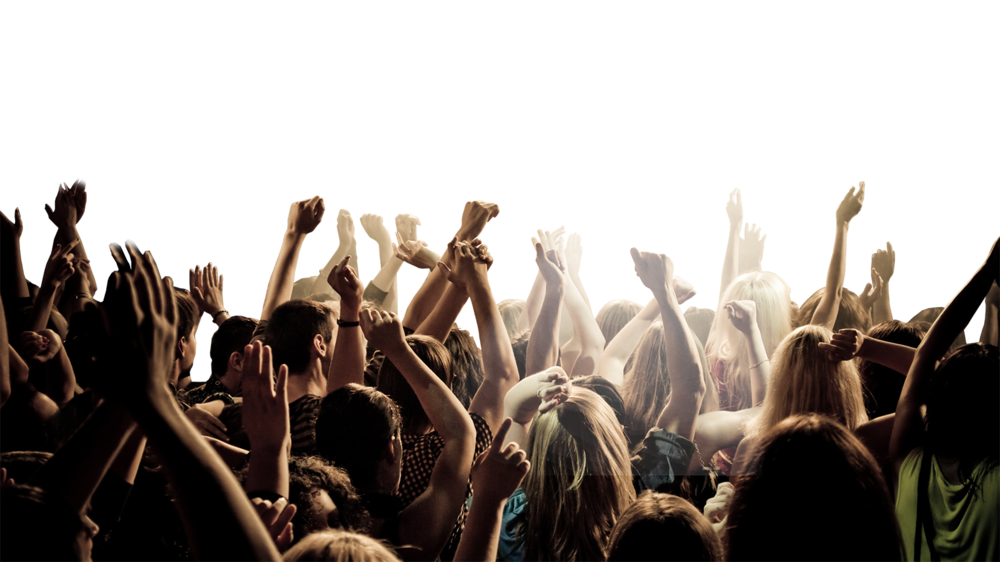
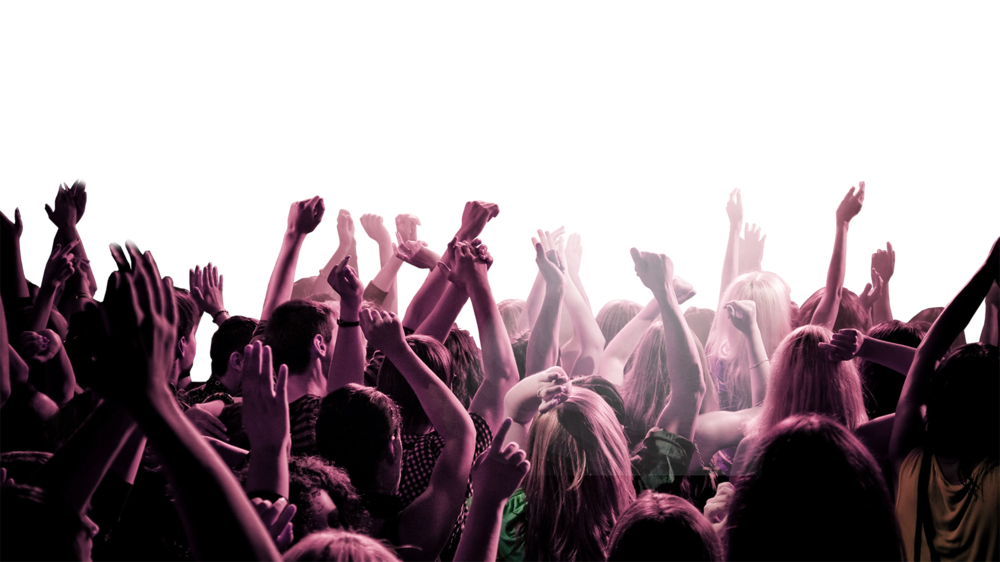
Add files via upload

diff --git a/landing_gleb/css/main.css b/landing_gleb/css/main.css
@@ -81,12 +81,12 @@ html,body{
     width: 90px;
     background-color: #b8bdc1;
 }
-#peoples-bg,#peoples-bg-2{
+#party-bg,#peoples-bg,#peoples-bg-2{
     position: absolute;
     bottom: 0;
     width: 120%;
+    left: -10%;
     height: auto;
-    transition: transform 1s linear;
 }
 #peoples-bg-2{
     bottom: -300px;

diff --git a/landing_gleb/index.html b/landing_gleb/index.html
@@ -43,6 +43,7 @@
     </div>
 </nav>
 <header class="container-fluid header-container">
+    <img src="img/party-bg.jpg" id="party-bg">
     <img src="img/peoples.png" id="peoples-bg">
     <img src="img/peoples2.png" id="peoples-bg-2">
     <div class="container">
